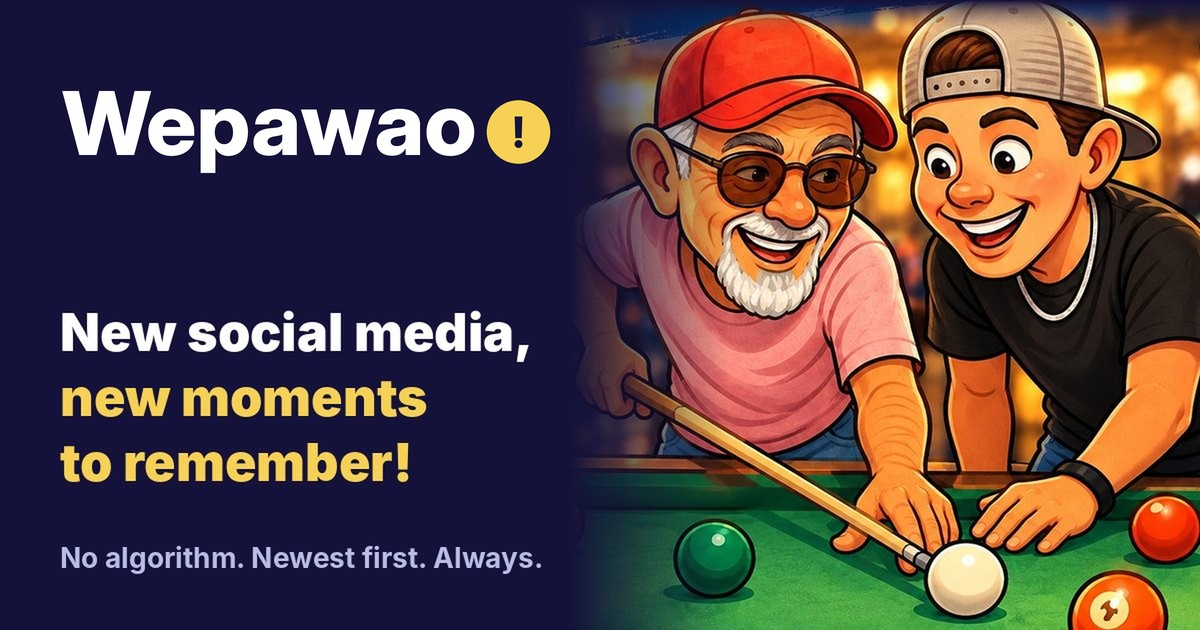
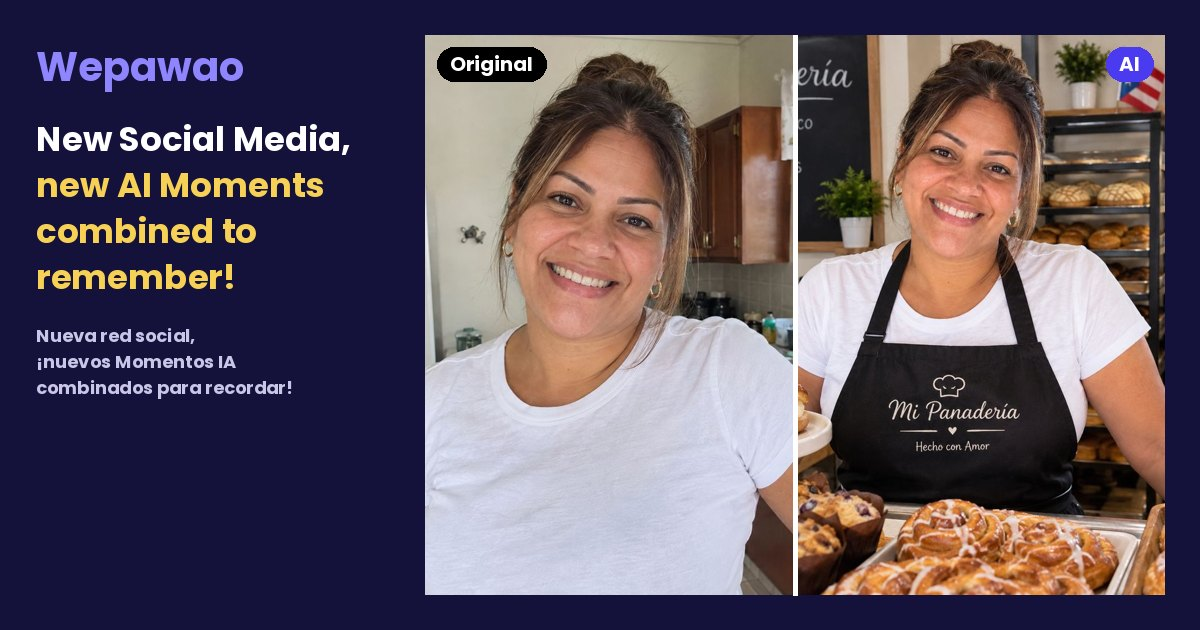
Shared posts show their own photo and words in WhatsApp/Messages previews; new Wepawao preview card
Claude-Session: https://claude.ai/code/session_01PsoHMHGy9g2gqZBTZ5P8fH

diff --git a/api/p.js b/api/p.js
@@ -1,0 +1,63 @@
+// Link previews for shared posts (WhatsApp, Messages, Facebook…).
+// Those apps read the page's tags without running the app, so /p/<post id> answers with
+// the post's own photo and words, then sends people on to the post inside Wepawao.
+const UUID_RE = /^[0-9a-f]{8}-[0-9a-f]{4}-[0-9a-f]{4}-[0-9a-f]{4}-[0-9a-f]{12}$/i
+const esc = (s) => String(s ?? '').replace(/[&<>"']/g, (c) => ({ '&': '&amp;', '<': '&lt;', '>': '&gt;', '"': '&quot;', "'": '&#39;' })[c])
+const clip = (s, n) => { s = String(s || '').replace(/\s+/g, ' ').trim(); return s.length > n ? `${s.slice(0, n - 1)}…` : s }
+
+export default async function handler(req, res) {
+  const id = String(req.query.id || '')
+  const lang = req.query.lang === 'es' ? 'es' : 'en'
+  const site = `https://${req.headers['x-forwarded-host'] || req.headers.host}`
+  const target = UUID_RE.test(id) ? `${site}/?post=${id}&lang=${lang}` : `${site}/?lang=${lang}`
+  const es = lang === 'es'
+  let title = 'Wepawao'
+  let desc = es ? 'Nueva red social, ¡nuevos Momentos IA combinados para recordar!' : 'New Social Media, new AI Moments combined to remember!'
+  let image = `${site}/wepawao-share.jpg`
+  let big = true
+
+  const SB = process.env.VITE_SUPABASE_URL || process.env.SUPABASE_URL
+  const KEY = process.env.VITE_SUPABASE_ANON_KEY || process.env.SUPABASE_ANON_KEY
+  if (UUID_RE.test(id) && SB && KEY) {
+    try {
+      const r = await fetch(`${SB}/rest/v1/posts?id=eq.${id}&status=eq.active&select=title,body,image_path,image_paths,ai_moment,profiles(display_name)`, {
+        headers: { apikey: KEY, Authorization: `Bearer ${KEY}` },
+        signal: AbortSignal.timeout(4000),
+      })
+      const p = r.ok ? (await r.json())[0] : null
+      if (p) {
+        const who = p.profiles?.display_name
+        const imgs = p.image_paths?.length ? p.image_paths : p.image_path ? [p.image_path] : []
+        const ai = p.ai_moment && imgs.length > 1
+        title = ai
+          ? (es ? `Momento IA ✨${who ? ` de ${who}` : ''} · Wepawao` : `${who ? `${who}'s ` : ''}AI Moment ✨ · Wepawao`)
+          : `${p.title || (who ? (es ? `Momento de ${who}` : `${who}'s moment`) : 'Wepawao')} · Wepawao`
+        if (p.body || p.title) desc = clip(p.body || p.title, 180)
+        const pick = ai ? imgs[1] : imgs[0]
+        if (pick) { image = `${SB}/storage/v1/object/public/photos/${pick.split('/').map(encodeURIComponent).join('/')}`; big = true }
+      }
+    } catch { /* fall back to the general Wepawao preview */ }
+  }
+
+  res.setHeader('Content-Type', 'text/html; charset=utf-8')
+  res.setHeader('Cache-Control', 'public, s-maxage=300, stale-while-revalidate=86400')
+  res.status(200).send(`<!doctype html>
+<html lang="${lang}"><head>
+<meta charset="utf-8"><meta name="viewport" content="width=device-width, initial-scale=1">
+<title>${esc(title)}</title>
+<meta name="description" content="${esc(desc)}">
+<meta property="og:type" content="article">
+<meta property="og:site_name" content="Wepawao">
+<meta property="og:title" content="${esc(title)}">
+<meta property="og:description" content="${esc(desc)}">
+<meta property="og:url" content="${esc(`${site}/p/${id}?lang=${lang}`)}">
+<meta property="og:image" content="${esc(image)}">
+<meta name="twitter:card" content="${big ? 'summary_large_image' : 'summary'}">
+<meta name="twitter:image" content="${esc(image)}">
+<meta http-equiv="refresh" content="0;url=${esc(target)}">
+<link rel="canonical" href="${esc(target)}">
+</head><body style="font-family:system-ui,sans-serif;background:#14123a;color:#fff;text-align:center;padding:40px">
+<p>Wepawao…</p><p><a style="color:#f6d155" href="${esc(target)}">${es ? 'Abrir el momento' : 'Open the moment'}</a></p>
+<script>location.replace(${JSON.stringify(target)})</script>
+</body></html>`)
+}

diff --git a/vite.config.js b/vite.config.js
@@ -41,17 +41,17 @@ function wepawaoSiteFiles() {
 
 const meta = (k, v, content) => ['meta', { [k]: v, content }]
 const HEAD_TAGS = [
-  meta('name', 'description', 'New social media, new moments to remember! No algorithm. Newest first. Always.'),
+  meta('name', 'description', 'New Social Media, new AI Moments combined to remember! No algorithm. Newest first. Always.'),
   // Link preview (WhatsApp, iMessage, Facebook, X)
   meta('property', 'og:type', 'website'),
   meta('property', 'og:site_name', 'Wepawao'),
-  meta('property', 'og:title', 'Wepawao New social media, new moments to remember!'),
-  meta('property', 'og:description', 'No algorithm. Newest first. Always. Una nueva red social, nuevos momentos para recordar.'),
+  meta('property', 'og:title', 'Wepawao · New Social Media, new AI Moments combined to remember!'),
+  meta('property', 'og:description', 'Your photo + AI = your AI Moment. Nueva red social, ¡nuevos Momentos IA combinados para recordar!'),
   meta('property', 'og:url', `${SITE}/`),
   meta('property', 'og:image', `${SITE}/wepawao-share.jpg`),
   meta('property', 'og:image:width', '1200'),
   meta('property', 'og:image:height', '630'),
-  meta('property', 'og:image:alt', 'Two friends laughing over a game of pool, with the Wepawao logo'),
+  meta('property', 'og:image:alt', 'A woman in her home kitchen and, made with AI, as the owner of her own bakery'),
   meta('name', 'twitter:card', 'summary_large_image'),
   meta('name', 'twitter:image', `${SITE}/wepawao-share.jpg`),
   // Home-screen app

diff --git a/App.jsx b/App.jsx
@@ -728,7 +728,8 @@ const postImages = (p) => (p.image_paths?.length ? p.image_paths : p.image_path 
 const imageFields = (paths, multi) => (multi ? { image_path: paths[0] || null, image_paths: paths } : { image_path: paths[0] || null })
 
 function postLink(id, lang) {
-  return `${window.location.origin}/?post=${id}&lang=${lang}`
+  // /p/… shows the post's own photo and words in WhatsApp/Messages previews, then opens the post here.
+  return `${window.location.origin}/p/${id}?lang=${lang}`
 }
 // Opens the phone's share sheet (WhatsApp, Messages, email…). Falls back to copying the link.
 async function sharePost(p, t, lang) {
